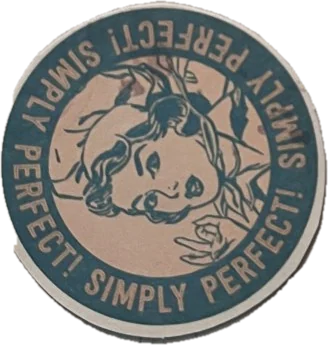
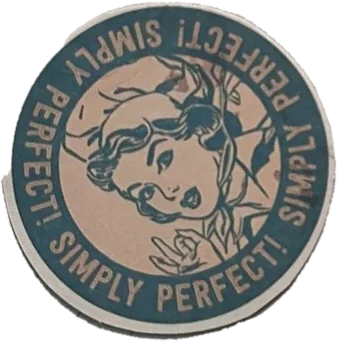
New scraps rotated upright
Claude-Session: https://claude.ai/code/session_01NjFahDLsvaMTZ3etuxnLXL

diff --git a/index.html b/index.html
@@ -707,7 +707,7 @@ const WORKS=[
   {id:"4574",t:"La canción cobra vida cuando cae la noche",w:704,h:1000},
   {id:"4480",t:"Varsity",w:767,h:1000},
 ];
-const SCRAPS=[{"id": "4472_0", "w": 600, "h": 474, "g": "img", "t": "riot grrrl, whole"}, {"id": "4477_0", "w": 343, "h": 323, "g": "img", "t": "cow"}, {"id": "4474_1", "w": 600, "h": 398, "g": "img", "t": "The Cramps on the moon"}, {"id": "4474_0", "w": 364, "h": 266, "g": "img", "t": "forest"}, {"id": "4479_0", "w": 600, "h": 449, "g": "img", "t": "outfit and car"}, {"id": "4471_0", "w": 336, "h": 407, "g": "img", "t": "three men"}, {"id": "riot-girl", "w": 600, "h": 398, "g": "img", "t": "riot girl"}, {"id": "blue-women", "w": 378, "h": 556, "g": "img", "t": "blue women"}, {"id": "eyes", "w": 600, "h": 148, "g": "img", "t": "eyes"}, {"id": "mushrooms", "w": 506, "h": 434, "g": "img", "t": "mushrooms"}, {"id": "boat", "w": 600, "h": 320, "g": "img", "t": "boat"}, {"id": "cap", "w": 149, "h": 102, "g": "img", "t": "cap"}, {"id": "tshirt", "w": 256, "h": 262, "g": "img", "t": "t-shirt"}, {"id": "car", "w": 600, "h": 252, "g": "img", "t": "car"}, {"id": "jacket", "w": 426, "h": 512, "g": "img", "t": "varsity jacket"}, {"id": "manon-girls", "w": 579, "h": 600, "g": "img", "t": "Manon girls"}, {"id": "creatures", "w": 600, "h": 258, "g": "img", "t": "fire creatures"}, {"id": "two-women", "w": 546, "h": 560, "g": "img", "t": "Martina and friend"}, {"id": "figure", "w": 370, "h": 600, "g": "img", "t": "striped figure"}, {"id": "riot-text", "w": 459, "h": 368, "g": "txt", "t": "riot grrrl"}, {"id": "cramps-logo", "w": 528, "h": 196, "g": "txt", "t": "The Cramps"}, {"id": "slow-side", "w": 600, "h": 65, "g": "txt", "t": "take a walk on the slow side"}, {"id": "soviet", "w": 415, "h": 300, "g": "txt", "t": "Soviet bus stops"}, {"id": "news", "w": 600, "h": 137, "g": "txt", "t": "NEWS"}, {"id": "manon", "w": 600, "h": 337, "g": "txt", "t": "MANON"}, {"id": "cancion", "w": 463, "h": 200, "g": "txt", "t": "la canci\u00f3n cobra vida"}, {"id": "money-talks", "w": 600, "h": 130, "g": "txt", "t": "money talks"}, {"id": "quote-amancio", "w": 575, "h": 213, "g": "txt", "t": "Amancio quote"}, {"id": "quote-kiyosaki", "w": 570, "h": 225, "g": "txt", "t": "Kiyosaki quote"}, {"id": "bubble", "w": 538, "h": 230, "g": "txt", "t": "speech bubble"}, {"id": "w-solo", "w": 265, "h": 99, "g": "txt", "t": "\u00bfsolo"}, {"id": "w-los", "w": 137, "h": 84, "g": "txt", "t": "los"}, {"id": "w-ricos", "w": 218, "h": 92, "g": "txt", "t": "ricos"}, {"id": "w-tienen", "w": 288, "h": 97, "g": "txt", "t": "tienen"}, {"id": "w-derecho", "w": 362, "h": 92, "g": "txt", "t": "derecho"}, {"id": "w-q", "w": 70, "h": 92, "g": "txt", "t": "?"}, {"id": "teal-dancer", "w": 262, "h": 333, "g": "img", "t": "dancing in blue"}, {"id": "sweet-birthday", "w": 310, "h": 344, "g": "img", "t": "have a sweet birthday"}, {"id": "bowl-mixer", "w": 292, "h": 305, "g": "img", "t": "mixing the batter"}, {"id": "homemade", "w": 216, "h": 346, "g": "txt", "t": "happiness is homemade"}, {"id": "cupcake-cherry", "w": 145, "h": 117, "g": "img", "t": "cupcake with a cherry"}, {"id": "made-with-love", "w": 76, "h": 600, "g": "txt", "t": "made with 100% love"}, {"id": "bon-appetit", "w": 262, "h": 232, "g": "img", "t": "bon app\u00e9tit"}, {"id": "flower-sprig", "w": 177, "h": 167, "g": "img", "t": "flower sprig"}, {"id": "grocery-bag", "w": 317, "h": 286, "g": "img", "t": "bag full of groceries"}, {"id": "hey-there", "w": 244, "h": 280, "g": "txt", "t": "hey there, sweet stuff"}, {"id": "cake-stand", "w": 212, "h": 260, "g": "img", "t": "cupcakes on a stand"}, {"id": "pie-hostess", "w": 343, "h": 385, "g": "img", "t": "pie for everyone"}, {"id": "fork", "w": 505, "h": 126, "g": "img", "t": "a big fork"}, {"id": "bunting", "w": 194, "h": 600, "g": "img", "t": "party bunting"}, {"id": "for-you", "w": 307, "h": 593, "g": "txt", "t": "for you"}, {"id": "donuts", "w": 155, "h": 342, "g": "img", "t": "two donuts"}, {"id": "blue-flower", "w": 144, "h": 138, "g": "img", "t": "blue flower"}, {"id": "simply-perfect", "w": 328, "h": 345, "g": "txt", "t": "simply perfect!"}, {"id": "apron", "w": 536, "h": 254, "g": "img", "t": "polka-dot apron"}, {"id": "coffee-lady", "w": 274, "h": 302, "g": "img", "t": "coffee, please"}, {"id": "fun-for-all", "w": 236, "h": 393, "g": "txt", "t": "fun for all!"}];
+const SCRAPS=[{"id": "4472_0", "w": 600, "h": 474, "g": "img", "t": "riot grrrl, whole"}, {"id": "4477_0", "w": 343, "h": 323, "g": "img", "t": "cow"}, {"id": "4474_1", "w": 600, "h": 398, "g": "img", "t": "The Cramps on the moon"}, {"id": "4474_0", "w": 364, "h": 266, "g": "img", "t": "forest"}, {"id": "4479_0", "w": 600, "h": 449, "g": "img", "t": "outfit and car"}, {"id": "4471_0", "w": 336, "h": 407, "g": "img", "t": "three men"}, {"id": "riot-girl", "w": 600, "h": 398, "g": "img", "t": "riot girl"}, {"id": "blue-women", "w": 378, "h": 556, "g": "img", "t": "blue women"}, {"id": "eyes", "w": 600, "h": 148, "g": "img", "t": "eyes"}, {"id": "mushrooms", "w": 506, "h": 434, "g": "img", "t": "mushrooms"}, {"id": "boat", "w": 600, "h": 320, "g": "img", "t": "boat"}, {"id": "cap", "w": 149, "h": 102, "g": "img", "t": "cap"}, {"id": "tshirt", "w": 256, "h": 262, "g": "img", "t": "t-shirt"}, {"id": "car", "w": 600, "h": 252, "g": "img", "t": "car"}, {"id": "jacket", "w": 426, "h": 512, "g": "img", "t": "varsity jacket"}, {"id": "manon-girls", "w": 579, "h": 600, "g": "img", "t": "Manon girls"}, {"id": "creatures", "w": 600, "h": 258, "g": "img", "t": "fire creatures"}, {"id": "two-women", "w": 546, "h": 560, "g": "img", "t": "Martina and friend"}, {"id": "figure", "w": 370, "h": 600, "g": "img", "t": "striped figure"}, {"id": "riot-text", "w": 459, "h": 368, "g": "txt", "t": "riot grrrl"}, {"id": "cramps-logo", "w": 528, "h": 196, "g": "txt", "t": "The Cramps"}, {"id": "slow-side", "w": 600, "h": 65, "g": "txt", "t": "take a walk on the slow side"}, {"id": "soviet", "w": 415, "h": 300, "g": "txt", "t": "Soviet bus stops"}, {"id": "news", "w": 600, "h": 137, "g": "txt", "t": "NEWS"}, {"id": "manon", "w": 600, "h": 337, "g": "txt", "t": "MANON"}, {"id": "cancion", "w": 463, "h": 200, "g": "txt", "t": "la canci\u00f3n cobra vida"}, {"id": "money-talks", "w": 600, "h": 130, "g": "txt", "t": "money talks"}, {"id": "quote-amancio", "w": 575, "h": 213, "g": "txt", "t": "Amancio quote"}, {"id": "quote-kiyosaki", "w": 570, "h": 225, "g": "txt", "t": "Kiyosaki quote"}, {"id": "bubble", "w": 538, "h": 230, "g": "txt", "t": "speech bubble"}, {"id": "w-solo", "w": 265, "h": 99, "g": "txt", "t": "\u00bfsolo"}, {"id": "w-los", "w": 137, "h": 84, "g": "txt", "t": "los"}, {"id": "w-ricos", "w": 218, "h": 92, "g": "txt", "t": "ricos"}, {"id": "w-tienen", "w": 288, "h": 97, "g": "txt", "t": "tienen"}, {"id": "w-derecho", "w": 362, "h": 92, "g": "txt", "t": "derecho"}, {"id": "w-q", "w": 70, "h": 92, "g": "txt", "t": "?"}, {"id": "teal-dancer", "w": 333, "h": 262, "g": "img", "t": "dancing in blue"}, {"id": "sweet-birthday", "w": 344, "h": 310, "g": "img", "t": "have a sweet birthday"}, {"id": "bowl-mixer", "w": 305, "h": 292, "g": "img", "t": "mixing the batter"}, {"id": "homemade", "w": 346, "h": 216, "g": "txt", "t": "happiness is homemade"}, {"id": "cupcake-cherry", "w": 117, "h": 145, "g": "img", "t": "cupcake with a cherry"}, {"id": "made-with-love", "w": 600, "h": 76, "g": "txt", "t": "made with 100% love"}, {"id": "bon-appetit", "w": 232, "h": 262, "g": "img", "t": "bon app\u00e9tit"}, {"id": "flower-sprig", "w": 167, "h": 177, "g": "img", "t": "flower sprig"}, {"id": "grocery-bag", "w": 286, "h": 317, "g": "img", "t": "bag full of groceries"}, {"id": "hey-there", "w": 280, "h": 244, "g": "txt", "t": "hey there, sweet stuff"}, {"id": "cake-stand", "w": 260, "h": 212, "g": "img", "t": "cupcakes on a stand"}, {"id": "pie-hostess", "w": 385, "h": 343, "g": "img", "t": "pie for everyone"}, {"id": "fork", "w": 505, "h": 126, "g": "img", "t": "a big fork"}, {"id": "bunting", "w": 600, "h": 194, "g": "img", "t": "party bunting"}, {"id": "for-you", "w": 593, "h": 307, "g": "txt", "t": "for you"}, {"id": "donuts", "w": 155, "h": 342, "g": "img", "t": "two donuts"}, {"id": "blue-flower", "w": 144, "h": 138, "g": "img", "t": "blue flower"}, {"id": "simply-perfect", "w": 338, "h": 342, "g": "txt", "t": "simply perfect!"}, {"id": "apron", "w": 254, "h": 536, "g": "img", "t": "polka-dot apron"}, {"id": "coffee-lady", "w": 274, "h": 302, "g": "img", "t": "coffee, please"}, {"id": "fun-for-all", "w": 393, "h": 236, "g": "txt", "t": "fun for all!"}];
 const BGS=[
   ["paper","#f6f3ec"],["kraft","#b99266"],["black","#151515"],["pink","#f2b3c6"],["yellow","#f0cd4a"],
   ["red","#c7382c"],["blue","#2747a0"],["sky","#bcd5e6"],["mint","#cfe6d4"],["green","#1f4a37"],["grey","#9a9c97"]
